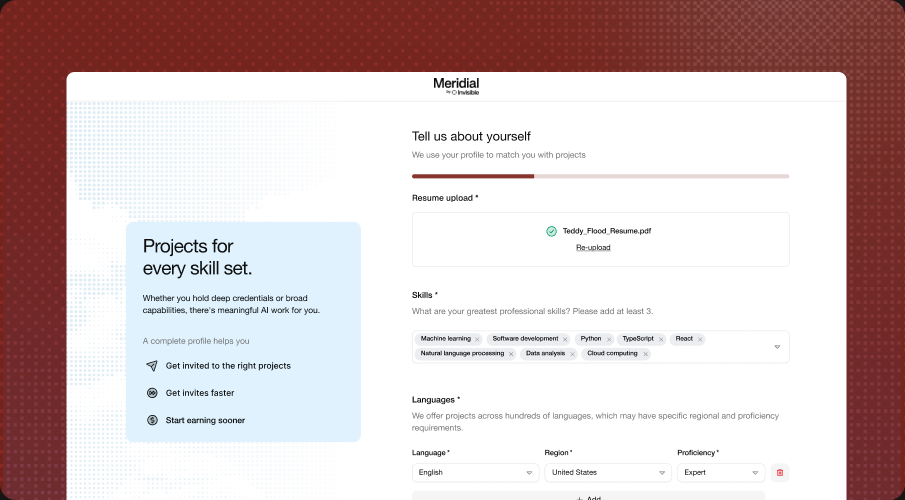
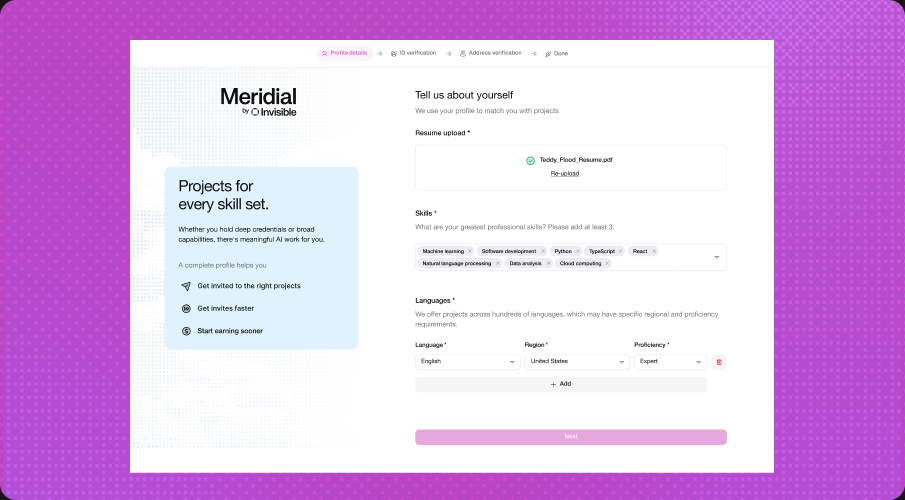
Restack the Meridial prototype as bare windows and keep the research board sharp.
The composed band baked a ground the page already has, and the research capture is too narrow to fill the column without going soft.

diff --git a/src/components/InvisibleOnboarding.tsx b/src/components/InvisibleOnboarding.tsx
@@ -55,7 +55,8 @@ const mediaWidth = (px: number) => `min(100%, max(${px}px, ${(px / CONTENT_WIDTH
 const media = {
   research: '/work/invisible/onboarding/research.png',
   journey: '/work/invisible/onboarding/journey.png',
-  prototype: '/work/invisible/onboarding/prototype.png',
+  prototypeProfile: '/work/invisible/onboarding/prototype-profile.png',
+  prototypeAddress: '/work/invisible/onboarding/prototype-address.png',
   next: '/work/invisible/onboarding/next.png',
 } as const
 
@@ -116,9 +117,8 @@ export default function InvisibleOnboarding() {
             width={CHART_WIDTH}
             body={
               <p style={{ ...bodyStyle, color: color.text.primary }}>
-                Meridial’s onboarding flow was sitting at a terrifying 2% conversion rate from
-                account creation to setting up their bank details. In between there were multiple
-                steps with tons of friction and huge drop-off. This was causing an operational
+                Meridial’s onboarding flow conversion rate was severely underperforming. There were
+                many steps with tons of friction and huge drop-off. This was causing an operational
                 strain on staffing projects on-time and delivering results to clients.
               </p>
             }
@@ -128,6 +128,7 @@ export default function InvisibleOnboarding() {
 
           <StoryRow
             heading="The process"
+            width={RESEARCH_WIDTH}
             body={
               <Paragraphs>
                 <p style={bodyStyle}>
@@ -148,6 +149,7 @@ export default function InvisibleOnboarding() {
             <MediaPanel
               src={media.research}
               alt="Competitive research and onboarding references organized in FigJam"
+              aspect={RESEARCH_ASPECT}
             />
           </StoryRow>
 
@@ -208,6 +210,7 @@ export default function InvisibleOnboarding() {
 
           <StoryRow
             lead="tight"
+            width={PROTOTYPE_WIDTH}
             body={
               <Paragraphs>
                 <p style={bodyStyle}>
@@ -230,11 +233,24 @@ export default function InvisibleOnboarding() {
               </Paragraphs>
             }
           >
-            <MediaPanel
-              src={media.prototype}
-              alt="Meridial onboarding prototype: the profile step beside the address verification step"
-              aspect={BAND_ASPECT}
-            />
+            <div
+              style={{
+                display: 'flex',
+                flexDirection: 'column',
+                gap: `${PROTOTYPE_GAP}px`,
+              }}
+            >
+              <MediaPanel
+                src={media.prototypeProfile}
+                alt="Meridial onboarding prototype: the profile details step, with resume upload, skills and languages"
+                aspect={PROTOTYPE_ASPECT}
+              />
+              <MediaPanel
+                src={media.prototypeAddress}
+                alt="Meridial onboarding prototype: the address verification step, with the tips panel beside it"
+                aspect={PROTOTYPE_ASPECT}
+              />
+            </div>
           </StoryRow>
 
           <StoryRow
@@ -463,7 +479,27 @@ function ResultCopy({ children }: { children: ReactNode }) {
  * the FigJam boards sit on, so it names its own.
  */
 const MEDIA_ASPECT = '1515 / 844'
-const BAND_ASPECT = '2450 / 845'
+/**
+ * The two prototype windows (nodes `331:50353` / `331:50585`). The frame used
+ * to sit them side by side on a magenta band; it now stacks them at 810 on the
+ * page's own `#171615`, so they are exported as the bare windows and the page
+ * shows through, rather than as one image carrying a ground we already have.
+ */
+const PROTOTYPE_ASPECT = '1620 / 1089'
+const PROTOTYPE_WIDTH = 810
+/** The frame's space between the stacked windows. */
+const PROTOTYPE_GAP = 56
+/**
+ * The research board is the bare capture (node `332:51387`) rather than the
+ * crop the frame's plate used to hold, so it carries its own portrait ratio.
+ * Its width is the one thing the source dictates: the file is 1742px wide, so
+ * half of that is the widest it renders at a clean 2× and the last width that
+ * still reads sharp. The frame draws it on the 700 copy column, which is 2.5×
+ * — this runs a step past that rather than out to the content column, where it
+ * would drop under 1.4× and go soft again.
+ */
+const RESEARCH_ASPECT = '1742 / 1622'
+const RESEARCH_WIDTH = 871
 
 function MediaPanel({
   src,

diff --git a/src/components/WorkList.tsx b/src/components/WorkList.tsx
@@ -65,9 +65,11 @@ const onboarding: WorkCard = {
   subtitle: 'Research & Product Design',
   art: {
     src: '/work/bento/card-invisible-onboarding.png',
-    alt: 'Meridial — the onboarding profile step on a deep red dither',
+    alt: 'Meridial — the onboarding profile step on a magenta dither',
   },
-  accent: '#ff8f0c',
+  // Follows the art, which the August 2026 frame recoloured onto the study's
+  // own magenta — the same family `InvisibleOnboarding`'s `STUDY_ACCENT` runs.
+  accent: '#cb52b9',
   extra: { label: '@ Invisible Technologies' },
 }
 

diff --git a/CLAUDE.md b/CLAUDE.md
@@ -55,7 +55,7 @@ The password for the Invisible career work lives on the case study pages, not on
 
 `InvisibleOnboarding.tsx` and `InvisibleSynapse.tsx` are hand-built rather than data-driven, because their copy and diagrams have no home in the `Project` type. Both opened on their Figma frames' shape (`58:2190`-era dark shell; Synapse is node `247:27494`) — a 720px title block over a 1225 column of copy-left / media-right rows on an 80px gutter — and **both have since been moved onto no3y Code's stacked rhythm**: `ProjectStory`'s `continuous` flow with `stack` rows, hand-rolled in each file rather than reached through `projects.ts` because the charts and diagrams are components. They resolve the same geometry that page does at every width — a centred 700px column for the title block and for each row's heading + copy, 80 from that copy down to its media — and each keeps a local `mediaWidth()`, which is `ProjectStory`'s `heroWidth`. The gutter on both is symmetric (`shellPad()` either side, content centred) rather than left-padding a left-aligned column, which resolves the same left edge because `shellPad()` is itself viewport-centred. Rows carry their own `lead` rather than the track carrying a gap, because 200 between sections is wrong for a row that continues the heading above it — those take `lead="tight"` at 120 so the group still reads as one section. Row headings moved from muted to the primary ink (`ProjectStory`'s `ROW_HEADING`) and take a capitalised first word: muted read as a rail label beside copy, which is not where it sits any more.
 
-What each page does with the media differs, and it is the one thing to get right when adding a row. A wide landscape composition fills the column; anything else holds the width it was drawn at, through the local `mediaWidth()`. Onboarding's four exports fill it and its two charts don't (fixed 766 × 430 CSS boxes — filling the column would stand a ~590px-tall block of the study's accent between two paragraphs). Three of those exports are FigJam boards on the frame's 757.5 plate and share `MEDIA_ASPECT`; the prototype one is a band drawn across the whole 1225 column, so it names its own `BAND_ASPECT` — a `MediaPanel` takes `aspect` for exactly that. The study is also **not on the site's orange**: the August 2026 frame recoloured its outcome rows and both chart plates onto a magenta, held as the page-local `STUDY_ACCENT` (`#cb52b9`, matching what the prototype band's export bakes in) rather than a theme token, since it is this one page's colour. On Synapse the blueprint and the library fill it and only the `LegacyDiagram` holds its 733, since that one is drawn in CSS rather than captured — percentage-positioned boxes, the same trick as the onboarding charts.
+What each page does with the media differs, and it is the one thing to get right when adding a row. A wide landscape composition fills the column; anything else holds the width it was drawn at, through the local `mediaWidth()`. Onboarding is the page to read on this, because every one of its rows answers it differently and a `MediaPanel` takes an `aspect` for exactly that reason. Its two charts are fixed 766 × 430 CSS boxes, since filling the column would stand a ~590px-tall block of the study's accent between two paragraphs. The journey and what's-next boards are the only ones that still fill it: FigJam captures on the frame's 757.5 plate, sharing `MEDIA_ASPECT`. The other two rows are each a lesson. The research board (`332:51387`) is the reason to check a capture's **native size** before choosing its width — it is the bare capture rather than the crop its plate held, and the source is only 1742px wide, so at the content column it renders under 1.4× and reads soft; it runs at `RESEARCH_WIDTH`, half the file's native width, which is the widest it goes at a clean 2× and the last width that reads sharp. The prototype row is the reason not to bake a ground you already have: the frame used to sit its two windows side by side on a magenta band, and now stacks them at 810 on the page's own `#171615`, so they are exported as the bare windows (`331:50353` / `331:50585`, `PROTOTYPE_ASPECT` on a `PROTOTYPE_GAP` stack) and the page shows through — exporting the composed frame instead would have shipped ~600K of dead dark pixels. The study is also **not on the site's orange**: the August 2026 frame recoloured its outcome rows and both chart plates onto a magenta, held as the page-local `STUDY_ACCENT` (`#cb52b9`, the same family the prototype's own buttons bake in) rather than a theme token, since it is this one page's colour. On Synapse the blueprint and the library fill it and only the `LegacyDiagram` holds its 733, since that one is drawn in CSS rather than captured — percentage-positioned boxes, the same trick as the onboarding charts.
 
 Synapse's two screenshots come out of Figma section `319:30670` **whole** (`blueprint.jpg`, `library.png`), the way `no3y-card.jpg` and D2's `hero-panel.jpg` do, rather than as loose captures the page composes. The blueprint is two task windows on a Monterey gradient — a Figma gradient, so there is nothing to rebuild in CSS — and the library is its own dark panel, with the frame's 32px pad, 36px column gap and 24px row gap all inside the export. That is why there is no longer a `LibraryPanel` component or a `library-1/2/3.png` set. The library export also bakes Figma's `#1e1e1e` canvas outside a ~9.5px corner; it is left in rather than cut to transparent (the fix `shot-armory.png` needed) because `MOCKUP_RADIUS` clips further in than that, so the wedge never renders — re-check it if that radius ever drops below ~10. Re-export both if the frames change; the blueprint is re-encoded at JPEG q85 **4:4:4**, which holds the fine white-on-dark UI text that default subsampling smears, and takes the Figma export from 1.6MB to 269K.
 
